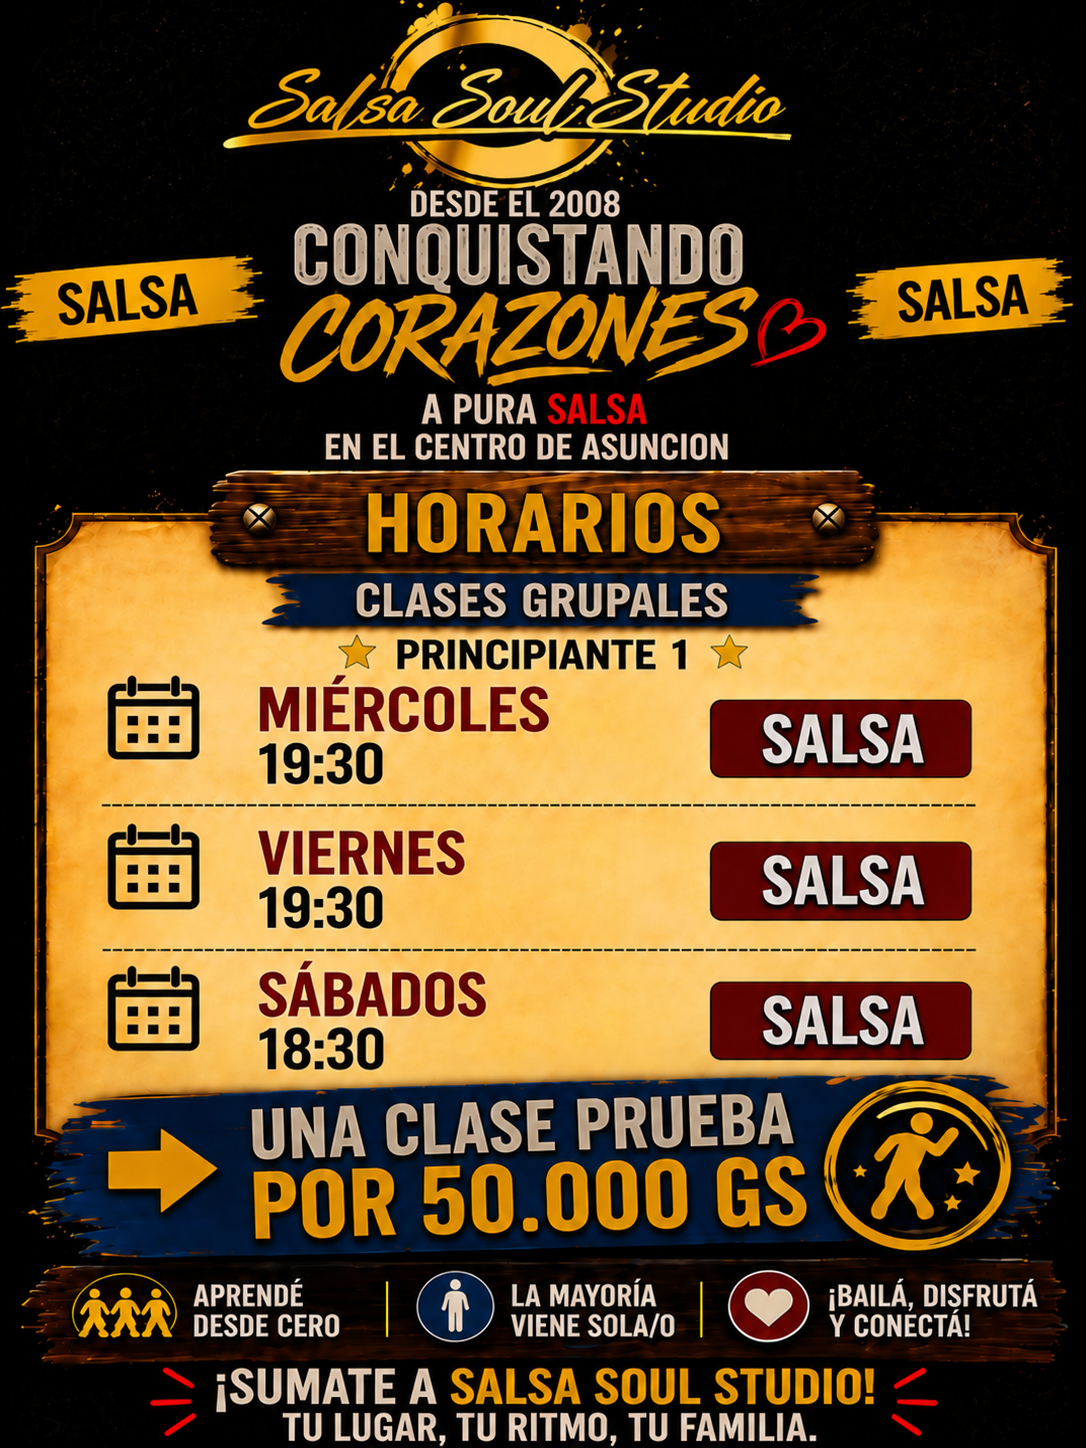
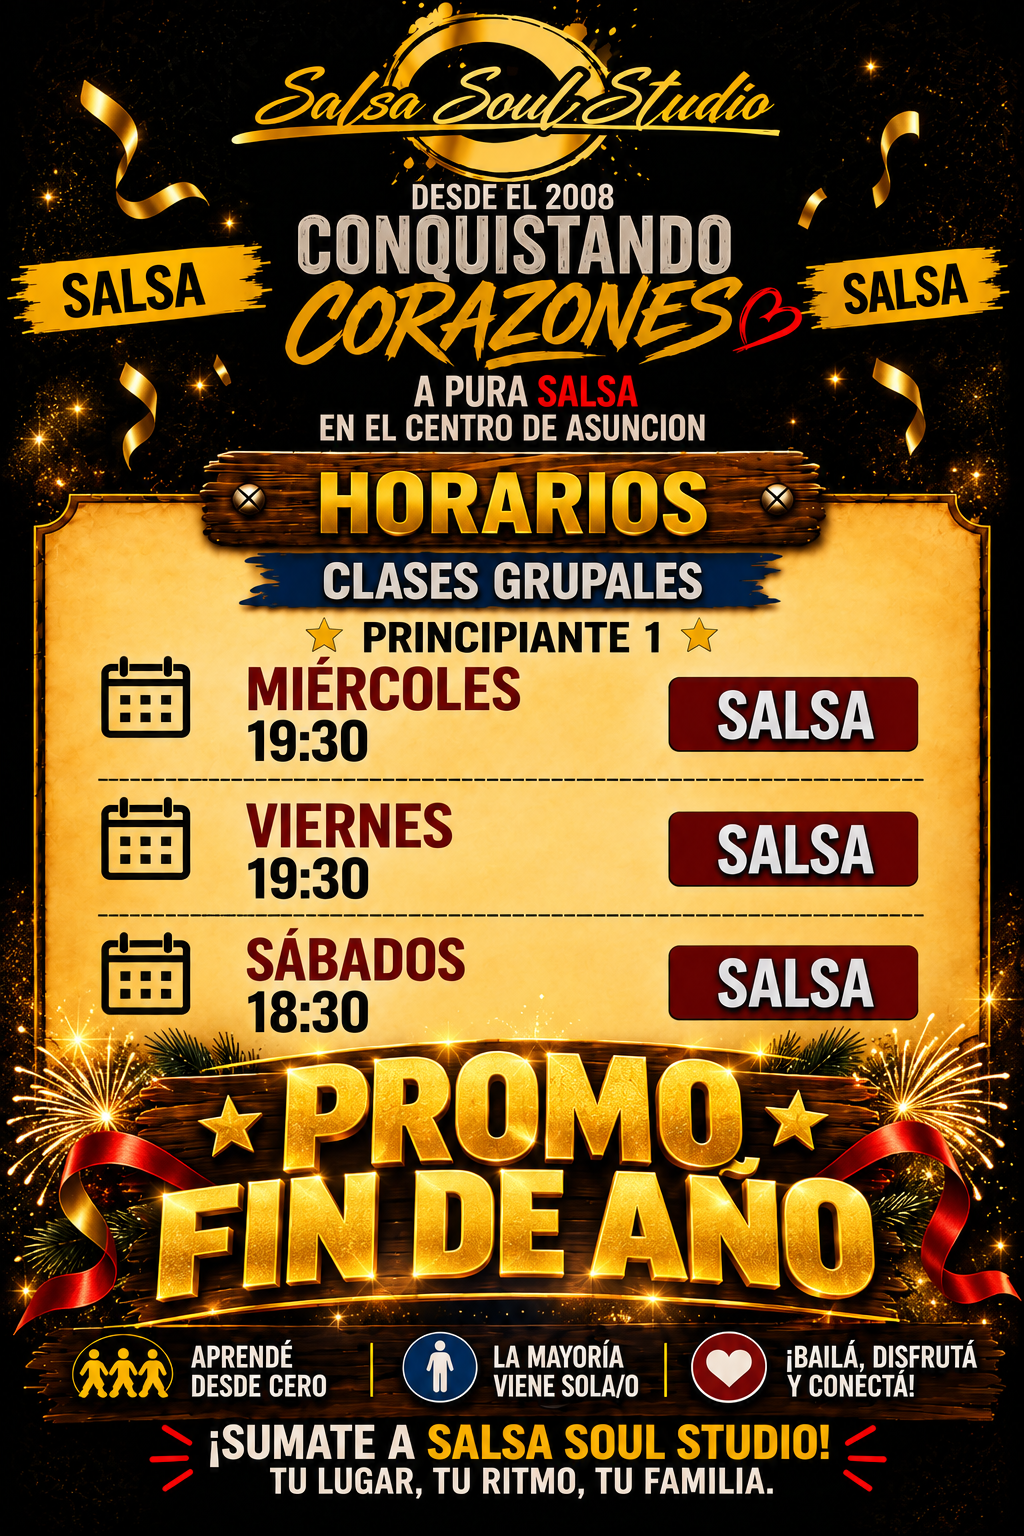
fix(horarios): grilla de la home con los afiches del 11/10
Iván pasó los afiches de octubre y son la fuente:
- Un card por nivel: Principiante 1 y 2 (mié/vie 19:30, sáb 18:30),
  Básico 2 (lun/jue 19:30, sáb 17:30 salsa + 18:30 bachata) y Básico 3
  (lun/jue 20:40, sáb 16:00 salsa + 17:00 bachata). Sale el 20:30.
- Intermedio sin sábado (no figura en ningún afiche). Grupos sin cambio.
- Afiches: el de Principiante 1 y 2 con la Promo Fin de Año (?v=4) y uno
  con los tres niveles en lugar de los de Básico 2 y 3 (20:30).

Mismo cambio que Dorita (salsa-soul-dorita 6bdf1d9).

diff --git a/index.html b/index.html
@@ -196,35 +196,36 @@
     <div class="levels">
 
       <div class="level-card">
-        <h3>Principiante 1 · Básico 2</h3>
-        <div class="schedule-item">
-          <div class="day">Lunes</div>
-          <div class="classes">
-            19:30h — Salsa (Básico 2)<br>
-            20:30h — Salsa (Básico 2)
-          </div>
-        </div>
+        <h3>Principiante 1 y 2</h3>
         <div class="schedule-item">
           <div class="day">Miércoles</div>
-          <div class="classes">19:30h — Salsa (Principiante 1)</div>
-        </div>
-        <div class="schedule-item">
-          <div class="day">Jueves</div>
-          <div class="classes">
-            19:30h — Salsa (Básico 2)<br>
-            20:30h — Salsa (Básico 2)
-          </div>
+          <div class="classes">19:30h — Salsa</div>
         </div>
         <div class="schedule-item">
           <div class="day">Viernes</div>
-          <div class="classes">19:30h — Salsa (Principiante 1)</div>
+          <div class="classes">19:30h — Salsa</div>
+        </div>
+        <div class="schedule-item">
+          <div class="day">Sábados</div>
+          <div class="classes">18:30h — Salsa (salón arriba)</div>
+        </div>
+      </div>
+
+      <div class="level-card">
+        <h3>Básico 2</h3>
+        <div class="schedule-item">
+          <div class="day">Lunes</div>
+          <div class="classes">19:30h — Salsa</div>
+        </div>
+        <div class="schedule-item">
+          <div class="day">Jueves</div>
+          <div class="classes">19:30h — Salsa</div>
         </div>
         <div class="schedule-item">
           <div class="day">Sábados</div>
           <div class="classes">
-            17:30h — Salsa (Básico 2)<br>
-            18:30h — Salsa (Principiante 1 · salón arriba)<br>
-            18:30h — Bachata (Básico 2 · salón abajo)
+            17:30h — Salsa<br>
+            18:30h — Bachata (salón abajo)
           </div>
         </div>
       </div>
@@ -233,17 +234,17 @@
         <h3>Básico 3</h3>
         <div class="schedule-item">
           <div class="day">Lunes</div>
-          <div class="classes">20:30h — Salsa</div>
+          <div class="classes">20:40h — Salsa</div>
         </div>
         <div class="schedule-item">
           <div class="day">Jueves</div>
-          <div class="classes">20:30h — Salsa</div>
+          <div class="classes">20:40h — Salsa</div>
         </div>
         <div class="schedule-item">
           <div class="day">Sábados</div>
           <div class="classes">
             16:00h — Salsa<br>
-            17:30h — Bachata
+            17:00h — Bachata
           </div>
         </div>
       </div>
@@ -257,13 +258,6 @@
         <div class="schedule-item">
           <div class="day">Grupo B</div>
           <div class="classes">Martes y Jueves · 19:15 a 21:00h</div>
-        </div>
-        <div class="schedule-item">
-          <div class="day">Sábados</div>
-          <div class="classes">
-            16:00h — Salsa<br>
-            17:30h — Bachata
-          </div>
         </div>
       </div>
 
@@ -280,13 +274,10 @@
 
       <div class="afiches-grid">
         <div class="afiche-card" onclick="openLightbox(this)">
-          <img src="afiche-horarios-p1.png?v=3" alt="Horarios Principiante 1" loading="lazy">
+          <img src="afiche-horarios-p1.png?v=4" alt="Horarios Principiante 1 y 2" loading="lazy">
         </div>
         <div class="afiche-card" onclick="openLightbox(this)">
-          <img src="afiche-horarios-basico2.png" alt="Horarios Básico 2" loading="lazy">
-        </div>
-        <div class="afiche-card" onclick="openLightbox(this)">
-          <img src="afiche-horarios-basico3.png?v=2" alt="Horarios Básico 3" loading="lazy">
+          <img src="afiche-horarios-niveles.png" alt="Horarios Principiante 1 y 2, Básico 2 y Básico 3" loading="lazy">
         </div>
         <div class="afiche-card" onclick="openLightbox(this)">
           <img src="afiche-horarios-intermedio.png" alt="Horarios y precios Intermedio" loading="lazy">
